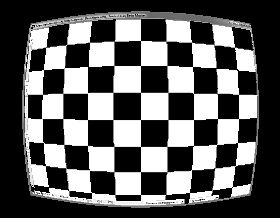
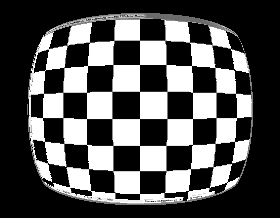
Successful emergence of undistorted images

diff --git a/RadialDistortion.py b/RadialDistortion.py
@@ -14,8 +14,8 @@ height,width=img.shape[:2]
 width_center=width//2
 height_center=height//2
 k1_value=-1e-5
-k2_value=1e-10
-k3_value=2e-17
+k2_value=0
+k3_value=0
 blank_image = np.zeros((height,width), dtype=np.uint8)
 '''max_possible_height_center=max_possible_height//2
 max_possible_width_center=max_possible_width//2'''
@@ -27,7 +27,7 @@ for height_pixel in range(0,height+1,1):
         x_distorted=(width_pixel-width_center)*(1+k1_value*(r_value**2)+k2_value*(r_value**4)+k3_value*(r_value**6))
         y_distorted=(height_pixel-height_center)*(1+k1_value*(r_value**2)+k2_value*(r_value**4)+k3_value*(r_value**6))
         try:
-            blank_image[round(y_distorted)+height_center,round(x_distorted)+width_center]=img[height_pixel-1,width_pixel-1]
+            blank_image[round(y_distorted)+height_center,round(x_distorted)+width_center]=img[height_pixel,width_pixel]
         except:
             '''print("Distorted Height",round(y_distorted)-2+height_center)
             print("Distorted Width",round(x_distorted)-2+width_center)
@@ -36,27 +36,29 @@ for height_pixel in range(0,height+1,1):
 #blank_image=cv2.resize(blank_image,(width,height))
 cv2.imwrite("check.png",blank_image)
 
-def myFunction(z,x_distorted,y_distorted):
+def myFunction(z,x_distorted,y_distorted,width_center,height_center,k1):
    x = z[0]
    y = z[1]
-   k1=-1e-5
 
    F = np.empty((2))
-   F[0] = (x-140)*(1+k1*((((x-140)**2)+((y-109)**2))**2)-(x_distorted-140))
-   F[1] = (y-109)*(1+k1*((((x-140)**2)+((y-109)**2))**2)-(y_distorted-109))
+   r_value=(((x-140)**2)+((y-109)**2))**0.5
+   F[0] = (x-width_center)*(1+k1*(r_value**2))-(x_distorted-width_center)
+   F[1] = (y-height_center)*(1+k1*(r_value**2))-(y_distorted-height_center)
    return F
+
 counter=0
 length_counter=0
 blank_image_2=np.zeros((height,width),dtype=np.uint8)
 for height_pixel in range(0,height+1,1):
     for width_pixel in range(0,width+1,1):
         zGuess = np.array([1,1])
-        z = fsolve(myFunction,zGuess,args=(width_pixel,height_pixel))
+        z = fsolve(myFunction,zGuess,args=(width_pixel, height_pixel,width_center,height_center,k1_value))
         #print(round(z[1]))
         try:
-            blank_image_2[int(round(z[1]))+height_center,int(round(z[0]))+width_center]=blank_image[height_pixel-1,width_pixel-1]
+            blank_image_2[int(round(z[1])),int(round(z[0]))]=blank_image[height_pixel,width_pixel]
             counter+=1
         except:
-            length_counter+=1
+            y=1
+        length_counter+=1
 cv2.imwrite('check2.png',blank_image_2)
 print(counter/length_counter)
